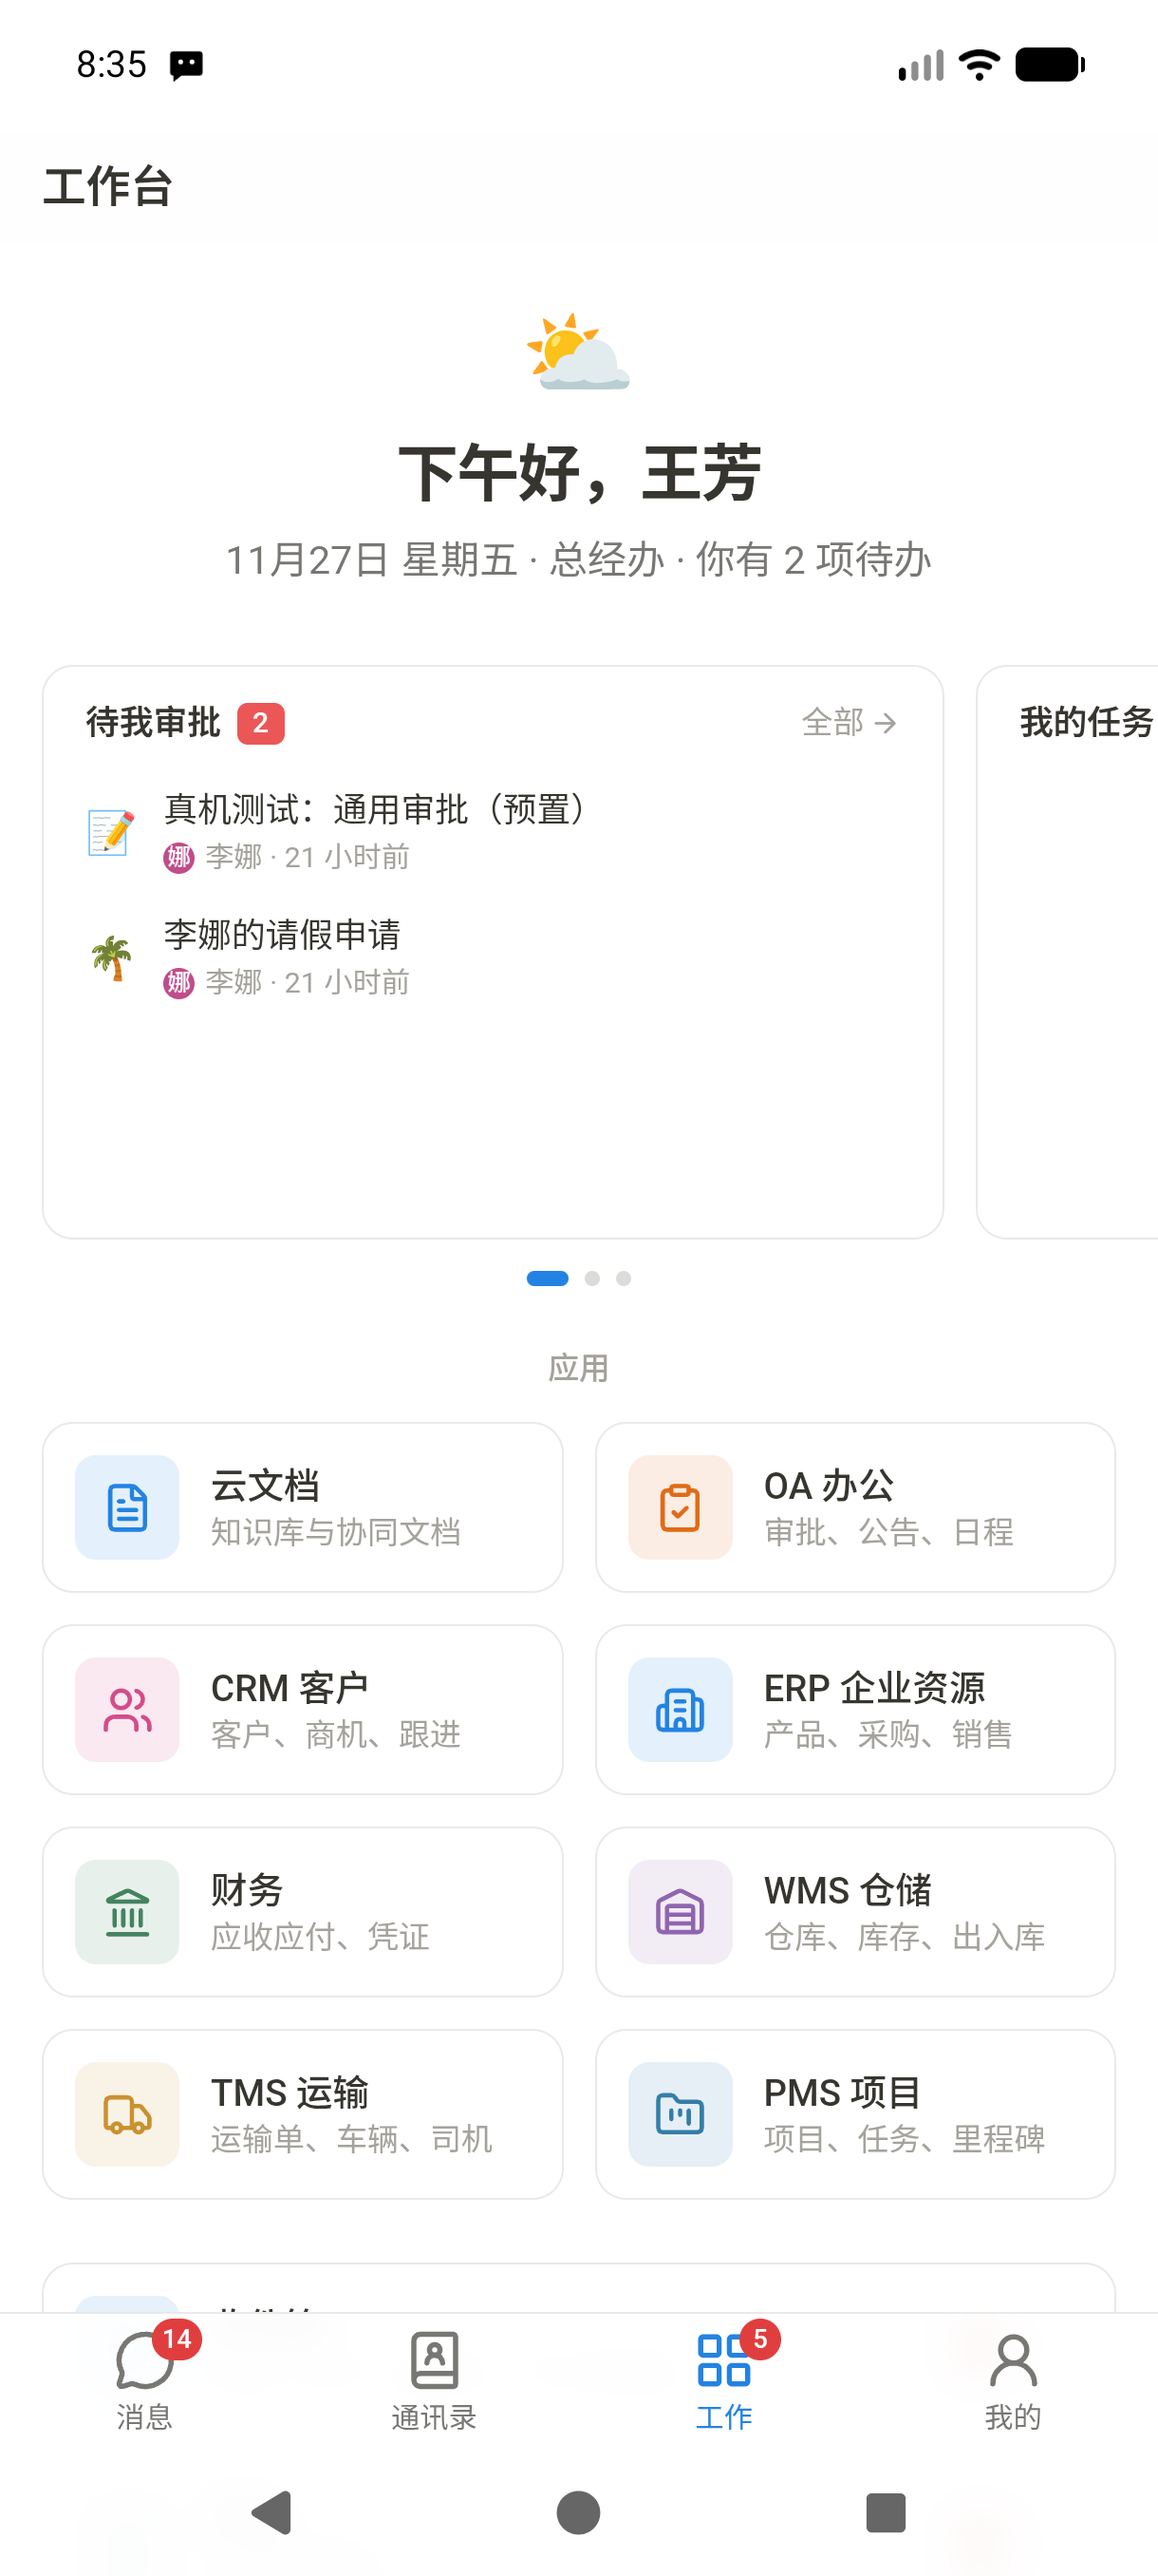
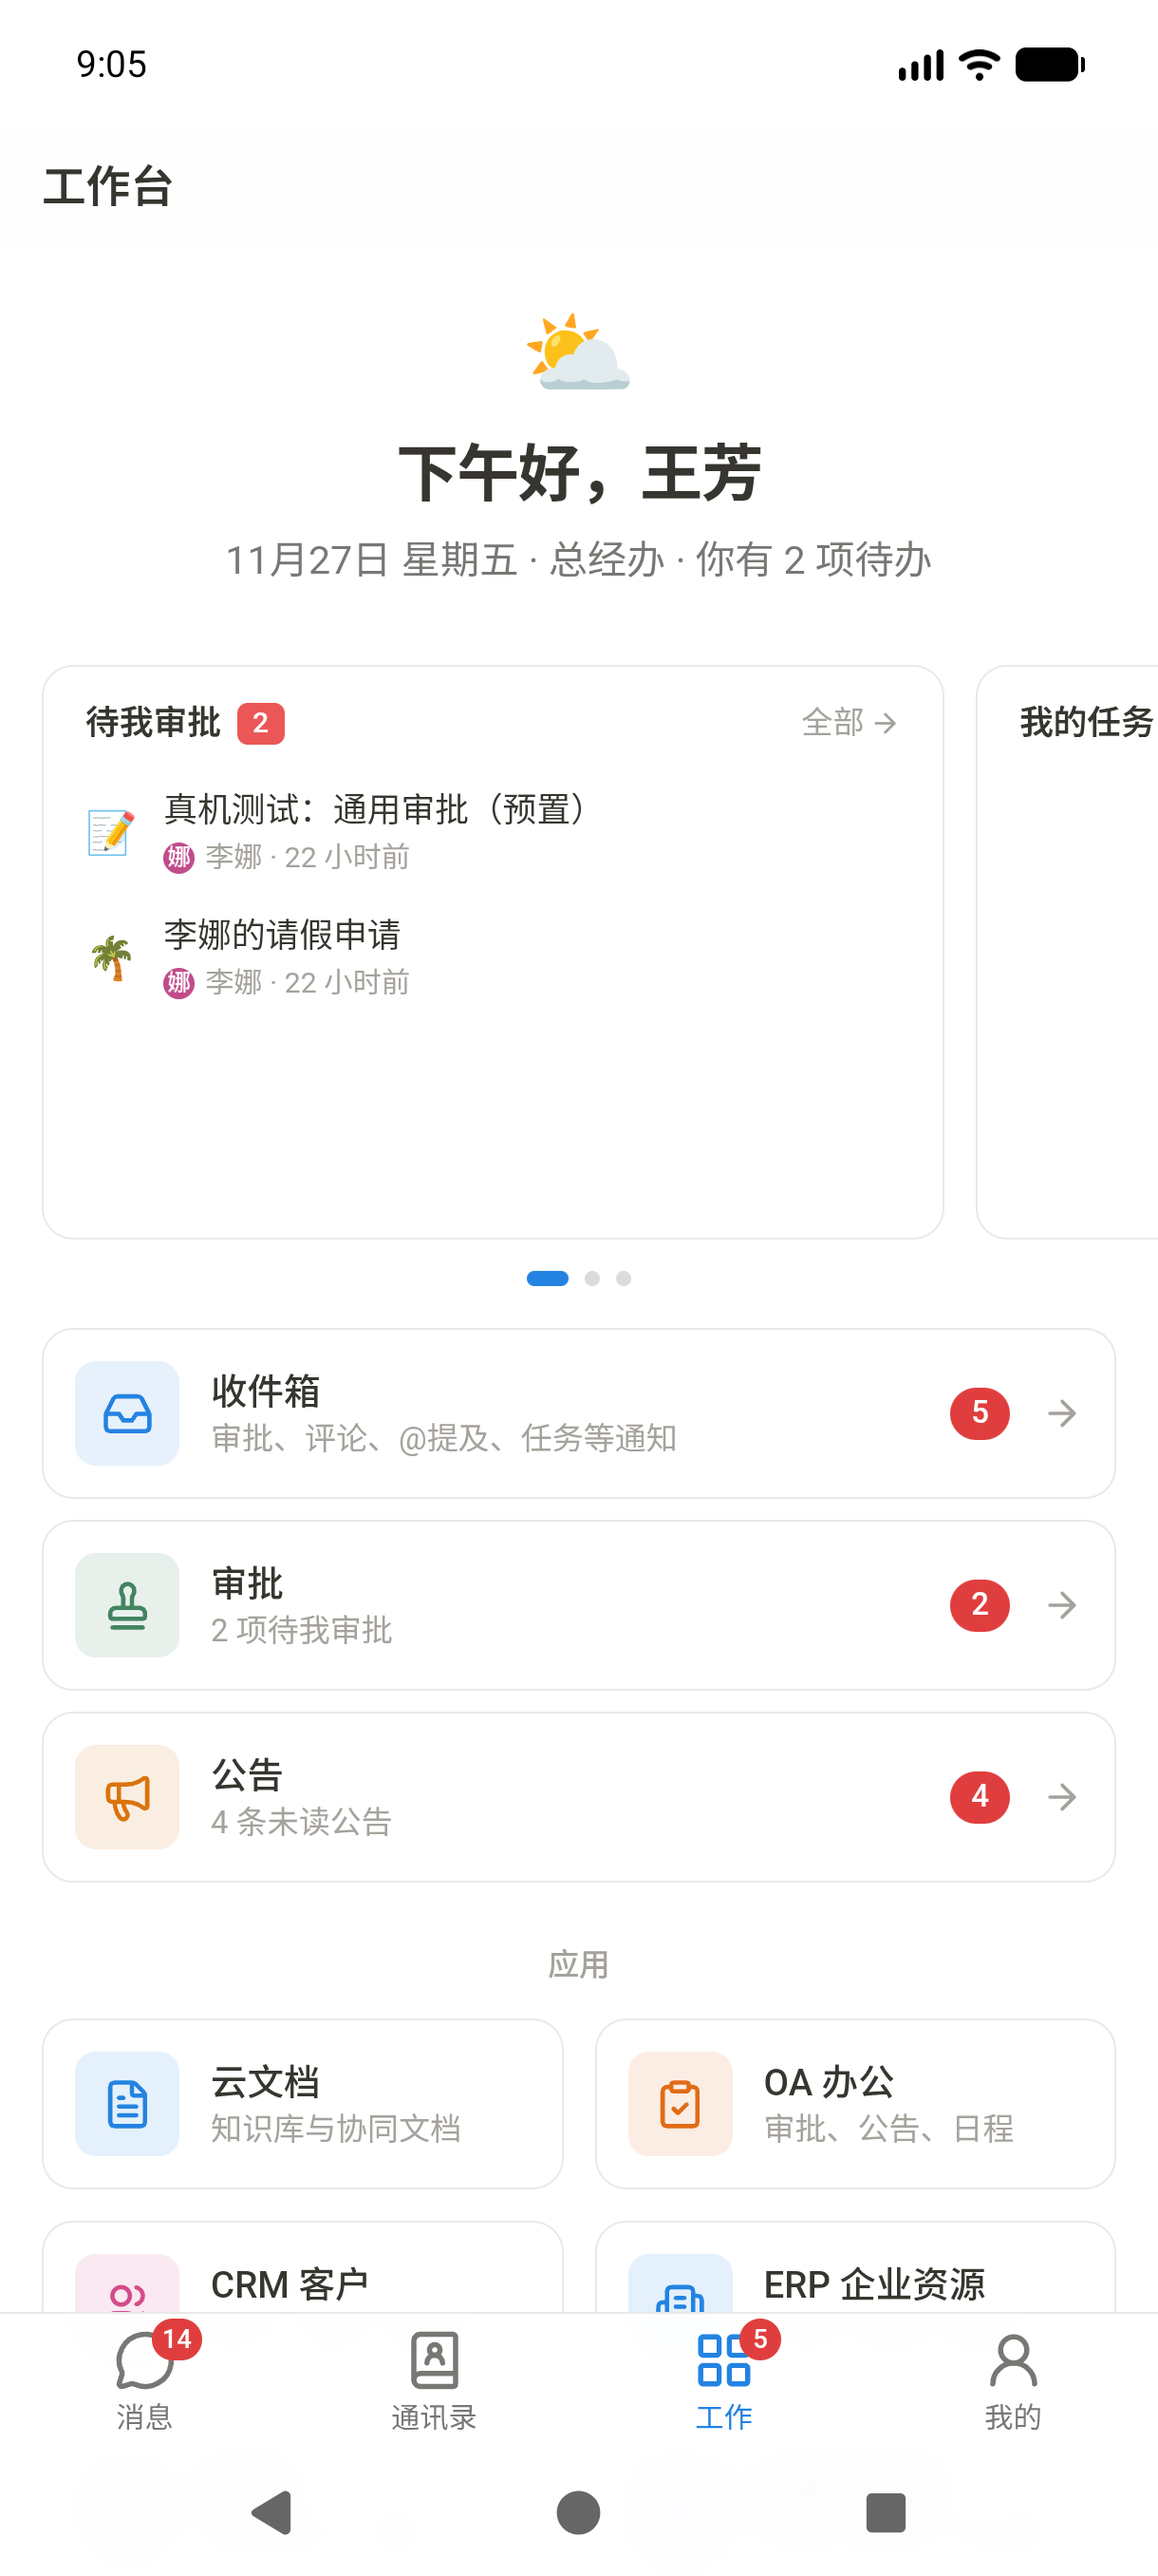
fix(mobile): 工作台收件箱、审批、公告入口移到应用之上
手机 /work 顺序：问候语 → 待办横滑卡片 → 收件箱 / 审批 / 公告 → 应用 → Web 完整版 → 最近编辑的文档；桌面不变。更新第三轮报告的顺序说明、截图与复测清单。

diff --git a/src/app/(app)/work/page.tsx b/src/app/(app)/work/page.tsx
@@ -331,6 +331,46 @@ export default async function WorkPage() {
           </div>
         )}
 
+        {/* 手机：待办卡片与应用之间是收件箱（手机布局没有侧边栏）、审批、公告入口 */}
+        <div className="mt-4 space-y-2 md:hidden" data-mobile-work-entries>
+          <Link
+            href="/inbox"
+            className="flex items-center gap-3 rounded-xl border border-line bg-white p-3 active:bg-sidebar"
+          >
+            <span className="flex size-10 shrink-0 items-center justify-center rounded-lg bg-accent-soft text-accent">
+              <Inbox className="size-5" />
+            </span>
+            <span className="min-w-0 flex-1">
+              <span className="block text-sm font-medium text-ink">收件箱</span>
+              <span className="block truncate text-xs text-ink-3">审批、评论、@提及、任务等通知</span>
+            </span>
+            {inboxUnread > 0 && (
+              <span className="rounded-full bg-danger px-2 py-0.5 text-xs font-medium text-white">{inboxUnread > 99 ? "99+" : inboxUnread}</span>
+            )}
+            <ArrowRight className="size-4 text-ink-3" />
+          </Link>
+          {perm.oa && (
+            <>
+              <MobileEntry
+                href="/oa/approvals"
+                icon={<Stamp className="size-5" />}
+                color="#448361"
+                label="审批"
+                hint={approvalCount > 0 ? `${approvalCount} 项待我审批` : "查看并处理审批"}
+                badge={approvalCount}
+              />
+              <MobileEntry
+                href="/oa/announcements"
+                icon={<Megaphone className="size-5" />}
+                color="#d9730d"
+                label="公告"
+                hint={unreadAnnouncements > 0 ? `${unreadAnnouncements} 条未读公告` : "公司动态、制度与通知"}
+                badge={unreadAnnouncements}
+              />
+            </>
+          )}
+        </div>
+
         <SectionTitle className="max-md:mt-6">应用</SectionTitle>
         <div
           className={cn(
@@ -357,45 +397,7 @@ export default async function WorkPage() {
           })}
         </div>
 
-        {/* 手机：应用下面是收件箱（手机布局没有侧边栏）、审批、公告入口与 Web 完整版 */}
-        <Link
-          href="/inbox"
-          className="mt-6 flex items-center gap-3 rounded-xl border border-line bg-white p-3 active:bg-sidebar md:hidden"
-        >
-          <span className="flex size-10 shrink-0 items-center justify-center rounded-lg bg-accent-soft text-accent">
-            <Inbox className="size-5" />
-          </span>
-          <span className="min-w-0 flex-1">
-            <span className="block text-sm font-medium text-ink">收件箱</span>
-            <span className="block truncate text-xs text-ink-3">审批、评论、@提及、任务等通知</span>
-          </span>
-          {inboxUnread > 0 && (
-            <span className="rounded-full bg-danger px-2 py-0.5 text-xs font-medium text-white">{inboxUnread > 99 ? "99+" : inboxUnread}</span>
-          )}
-          <ArrowRight className="size-4 text-ink-3" />
-        </Link>
-
-        <div className="mt-2 space-y-2 md:hidden" data-mobile-work-entries>
-          {perm.oa && (
-            <>
-              <MobileEntry
-                href="/oa/approvals"
-                icon={<Stamp className="size-5" />}
-                color="#448361"
-                label="审批"
-                hint={approvalCount > 0 ? `${approvalCount} 项待我审批` : "查看并处理审批"}
-                badge={approvalCount}
-              />
-              <MobileEntry
-                href="/oa/announcements"
-                icon={<Megaphone className="size-5" />}
-                color="#d9730d"
-                label="公告"
-                hint={unreadAnnouncements > 0 ? `${unreadAnnouncements} 条未读公告` : "公司动态、制度与通知"}
-                badge={unreadAnnouncements}
-              />
-            </>
-          )}
+        <div className="mt-4 md:hidden" data-mobile-web-full>
           <WebFullLink />
         </div>
 

diff --git a/docs/mobile/device-feedback-round3.md b/docs/mobile/device-feedback-round3.md
@@ -8,7 +8,7 @@
 
 | # | 问题 | 结果 | 主要文件 |
 | --- | --- | --- | --- |
-| 1 | 工作台：去掉应用概览、最新公告；待办放最上面，左右滑动 | 待我审批 / 我的任务 / 今日日程三张卡片放在问候语下方，横向滑动、逐张吸附，右侧露出下一张的边缘，下方圆点指示；应用网格紧跟其后；页面无横向溢出 | `(app)/work/page.tsx`、`work/todo-deck.tsx`、`src/lib/swipe-deck.ts` |
+| 1 | 工作台：去掉应用概览、最新公告；待办放最上面，左右滑动 | 待我审批 / 我的任务 / 今日日程三张卡片放在问候语下方，横向滑动、逐张吸附，右侧露出下一张的边缘，下方圆点指示；卡片下面是收件箱 / 审批 / 公告入口，再下面是应用网格；页面无横向溢出 | `(app)/work/page.tsx`、`work/todo-deck.tsx`、`src/lib/swipe-deck.ts` |
 | 2 | 「我的」去掉收件箱 | 已去掉；`/inbox` 路由、工作台的收件箱入口和标签栏未读数保留 | `(app)/me/page.tsx`、`me/me-links.ts` |
 | 3 | 通话 / 视频界面顶到状态栏、底到导航栏 | 通话全屏界面、群会议、最小化浮窗、来电浮窗都让出状态栏和导航栏；同类全屏浮层（文档评论面板、数据表记录抽屉、关系图弹窗）一并处理；通话全屏时状态栏图标切成浅色 | `call/call-overlay.tsx`、`docs/comments-panel.tsx`、`docs/database/row-drawer.tsx`、`docs/graph/graph-dialog.tsx`、`src/lib/mobile-bridge.ts` |
 
@@ -21,10 +21,12 @@
   - 待办三块（待我审批、我的任务、今日日程）抽成一个数组，桌面和手机共用同一份内容。手机上用新组件 `TodoDeck` 放在问候语正下方：容器内横向滚动（`snap-x snap-mandatory`），每张卡片 `snap-start snap-always`，快速甩动也只翻一张；卡片宽 84%，右侧露出下一张约 70px；下方圆点指示当前是第几张，点圆点可以跳转。只有一块待办（例如只开了 PMS）时卡片占满宽度、不显示圆点。
   - 当前卡片的计算放在 `deckActiveIndex()`（`src/lib/swipe-deck.ts`）：按卡片步长取整；最后一张卡片比容器窄、对不齐起点，滚到最右端时直接算最后一张。
   - 横向滚动只发生在卡片容器内：容器用 `-mx-4 px-4` 贴到屏幕边缘，`overscroll-x-contain` 防止滑到头时带动页面，页面本身 `scrollWidth` 仍等于视口宽度。
-  - 卡片下面就是「应用」网格（手机上标题间距由 40px 缩到 24px），再往下是收件箱、审批、公告、Web 完整版入口和「最近编辑的文档」。
+  - 手机上从上到下依次是：问候语 → 待办卡片 → 收件箱 / 审批 / 公告入口 → 「应用」网格（八个应用）→ 打开 Web 完整版 → 「最近编辑的文档」。（第一版把三个入口放在应用下面，负责人复核后要求移到应用之上。）
+  - 间距：待办卡片圆点到入口 16px，入口之间 8px，入口到「应用」标题 24px（手机上「应用」标题的上边距由 40px 缩到 24px）。
   - 「待办」竖排分区、「应用概览」「最新公告」在手机上隐藏（`max-md:hidden`），桌面不变。
 - **验证**（模拟器，两种导航结果相同）：
-  - 分区只剩「应用 | 最近编辑的文档」，待办卡片在应用之前；页面 `scrollWidth` = `innerWidth` = 443。
+  - 分区只剩「应用 | 最近编辑的文档」；页面 `scrollWidth` = `innerWidth` = 443，卡片容器以外没有超出屏幕右边的元素。
+  - 区块顺序（页面内纵坐标，两种导航相同）：问候语 166 → 待办卡片 255 → 收件箱 / 审批 / 公告 509 → 「应用」745 → Web 完整版 1087 → 最近编辑的文档 1192。截图：`after/05-work-order-{gesture,3btn}.png`、`after/05-work-order-scroll{1,2}-*.png`，数据在 `after/work-order-*.json`。
   - 卡片 346px 宽，第二张从 374px 开始露出；用 `adb input swipe` 真实滑动两次，`scrollLeft` 0 → 358 → 650，当前卡片 0 → 1 → 2，圆点同步。修复过程中发现快速甩动会从第一张直接跳到第三张，加了 `snap-always` 后每次只翻一张。
   - 截图：`before/01-work-*.png` → `after/01-work-{gesture,3btn}.png`（初始）、`after/01-work-swipe1-*.png`（第二张）、`after/01-work-swipe2-*.png`（第三张）、`after/01-work-scroll*-*.png`（往下滚动）；测量数据在 `after/work-*.json`。
 
@@ -67,6 +69,7 @@
 
 - 工作台（顶部 / 底部）、收件箱、个人资料设置、文档、文档评论面板、日历、通话呼出全屏、最小化浮窗、来电浮窗、群会议：0 像素差异，或只有左侧栏未读角标和会话列表时间这几十个像素（两次运行之间新增的通话记录）。
 - 「我的」页：去掉收件箱一行，有意的改动。
+- 入口移到应用之上以后，又用改动前的包（`3195baa`）和最终的包对比了一次工作台（`desktop/diff-work-order.txt`）：顶部只有左侧栏未读角标 11 个像素不同，底部 0 像素；桌面上分区仍是「应用 | 待办 | 最近编辑的文档 | 应用概览 | 最新公告」。`desktop/work-*.png`、`desktop/work-bottom-*.png` 已换成这次的截图。
 - 桌面截图用的是浮窗位置调整前的一版包；之后只改了最小化浮窗的一个 `max-md:` 类，桌面不受影响。
 - 桌面上「接通后」的通话画面没有截到：无头 Edge 在双方接通后渲染进程崩溃（显示 This page couldn't load），改动前后的包都一样，与本次改动无关。接通前的全屏界面（`call2-outgoing`）已经覆盖了同一套布局，差异为 0。
 
@@ -86,8 +89,8 @@
 
 请分别在手势导航和三键导航（设置 → 桌面 → 系统导航方式）下各走一遍：
 
-1. **工作台**：打开「工作」标签。问候语下方第一块就是「待我审批」卡片，右侧能看到下一张卡片的边缘；左右滑动，每次只翻一张（审批 → 任务 → 日程），下方圆点跟着变；点圆点能跳到对应卡片。整页上下滚动时不会左右晃动。卡片下方是「应用」，页面里没有「应用概览」和「最新公告」。
-2. 工作台上的收件箱、审批、公告入口还在，点进去正常。
+1. **工作台**：打开「工作」标签。问候语下方第一块就是「待我审批」卡片，右侧能看到下一张卡片的边缘；左右滑动，每次只翻一张（审批 → 任务 → 日程），下方圆点跟着变；点圆点能跳到对应卡片。整页上下滚动时不会左右晃动。页面里没有「应用概览」和「最新公告」。
+2. 工作台从上到下的顺序：问候语 → 待办卡片 → 收件箱、审批、公告 → 「应用」八个应用 → 打开 Web 完整版 → 最近编辑的文档。收件箱、审批、公告点进去正常，未读数与角标一致。
 3. **我的**：只有「个人资料」（管理员另有「管理后台」）和 App 设置项，没有「收件箱」。
 4. **语音 / 视频通话**：在单聊里发起视频通话。顶部会话名、计时和「最小化」按钮完整显示在状态栏下方，状态栏图标变成白色；底部的静音、视频、挂断按钮都在导航栏上方，能正常点击。
 5. 点「最小化」：小浮窗出现在右上角（「视频通话进行中」横条下方，不盖住「回到通话」），不挡输入框和底部标签栏；切到消息列表后浮窗还在；点展开回到全屏，挂断后状态栏图标恢复深色。
